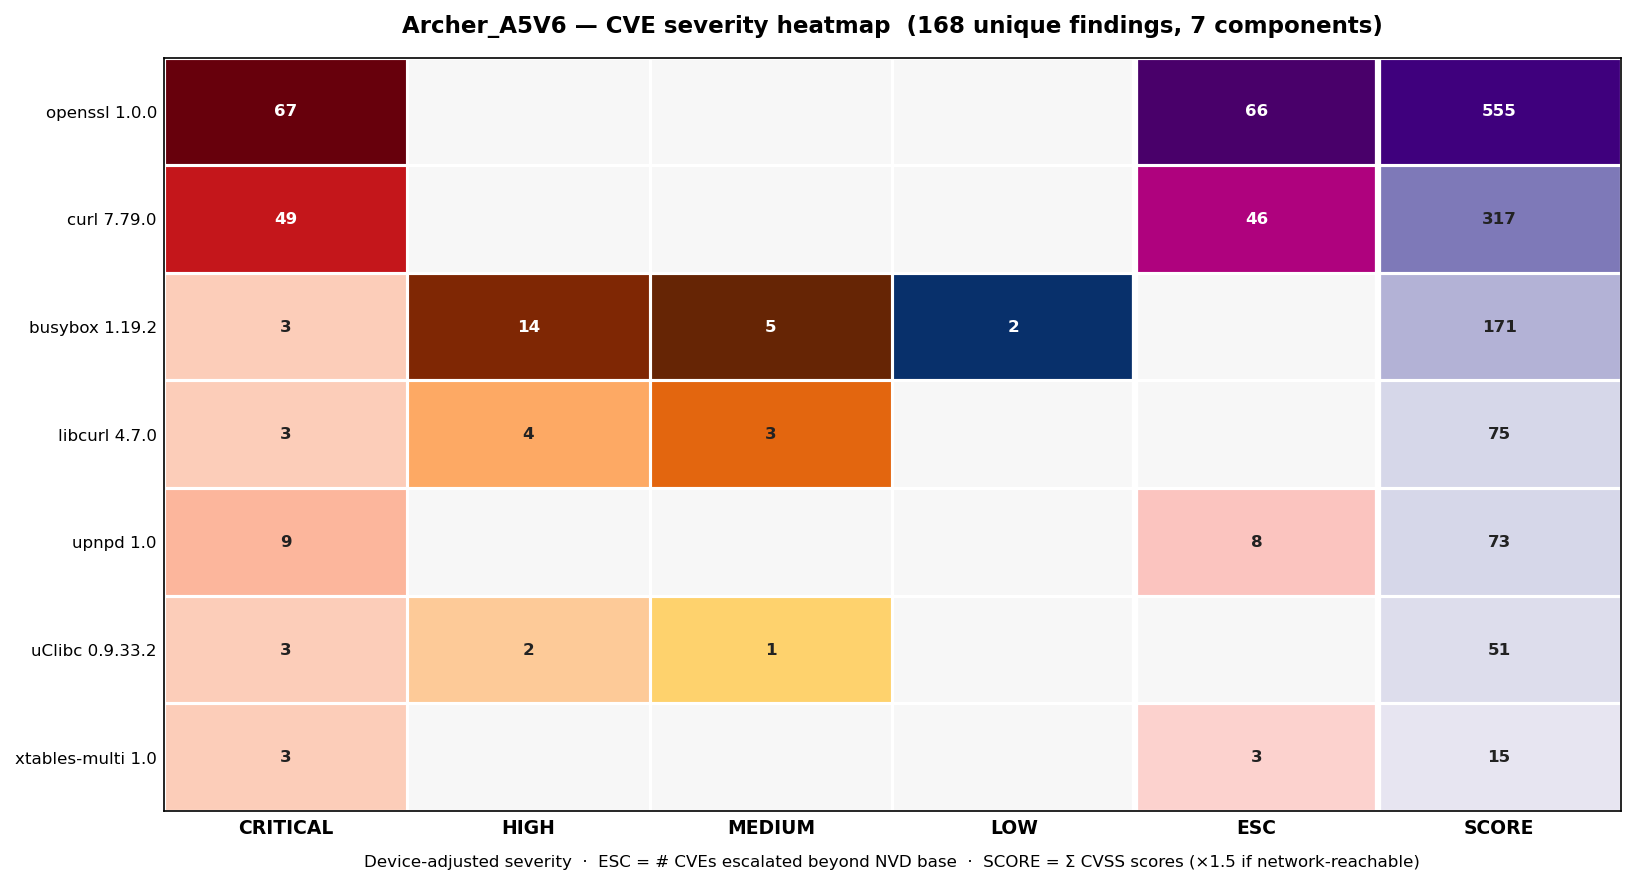
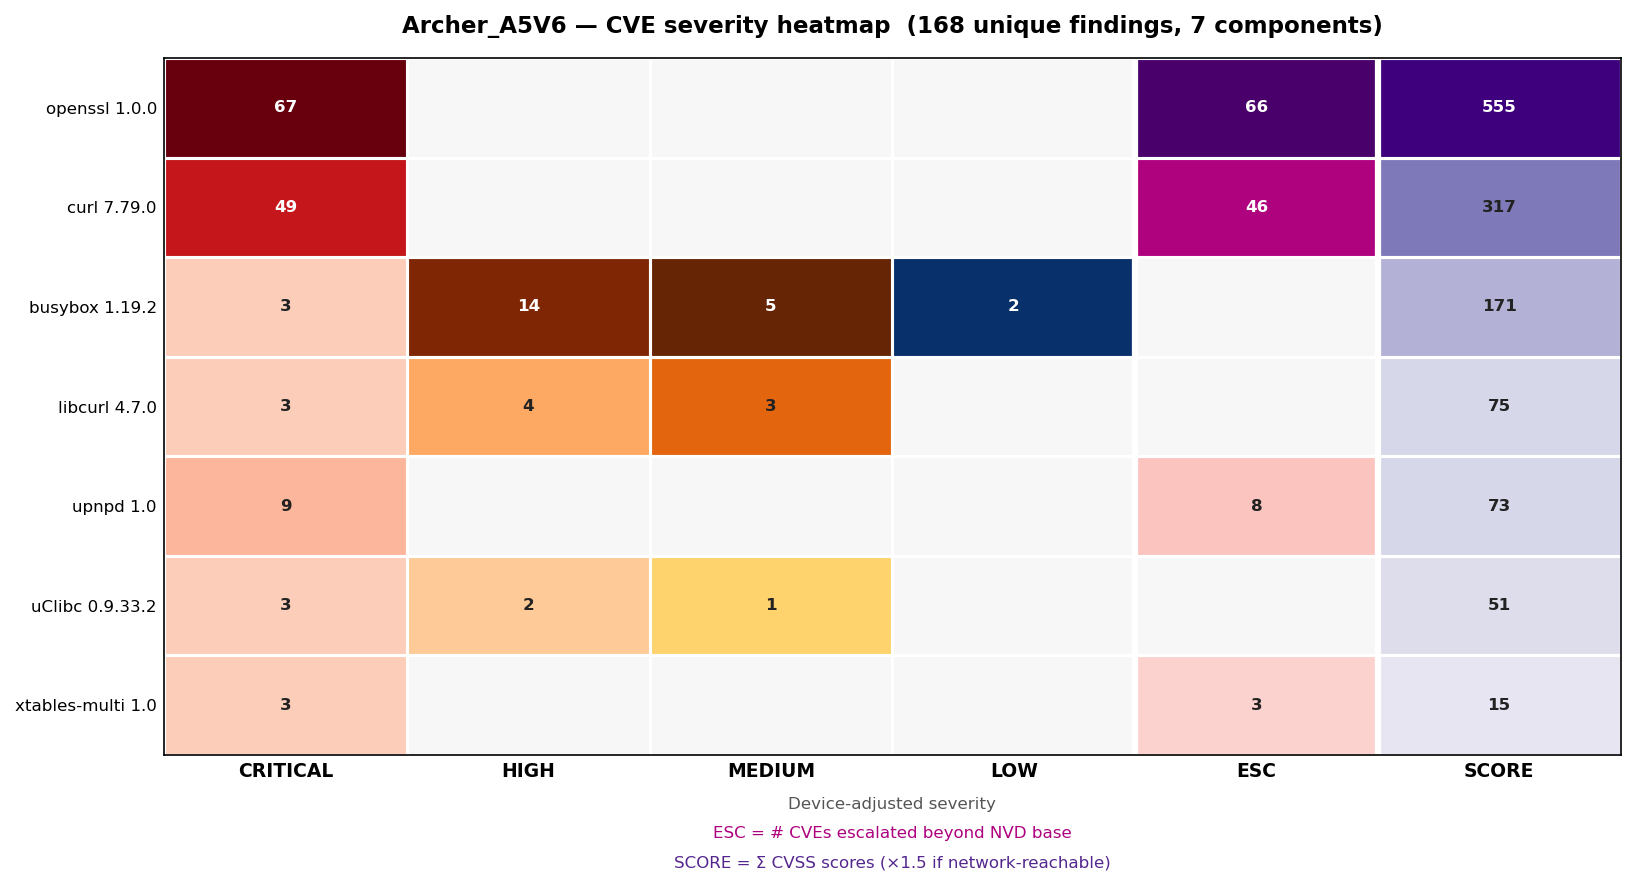
Split x-label into three color-coded lines
Each label line now matches its column's colormap color:
gray for severity, magenta (#ae017e) for ESC, purple (#54278f)
for SCORE. Uses ax.annotate with offset points so bbox_inches=tight
captures all three lines without clipping.

diff --git a/firmware_analysis/reporting/heatmap.py b/firmware_analysis/reporting/heatmap.py
@@ -209,8 +209,16 @@ def _draw(
         f"{firmware_id} — CVE severity heatmap  ({total} unique findings, {n_rows} components)",
         fontsize=11, fontweight="bold", pad=12,
     )
-    ax.set_xlabel("Device-adjusted severity  ·  ESC = # CVEs escalated beyond NVD base  ·  SCORE = Σ CVSS scores (×1.5 if network-reachable)",
-                  fontsize=8, labelpad=8)
+    _annotate = dict(
+        xy=(0.5, 0), xycoords="axes fraction",
+        textcoords="offset points", ha="center", va="top", fontsize=8,
+    )
+    ax.annotate("Device-adjusted severity",
+                xytext=(0, -20), color="#555555", **_annotate)
+    ax.annotate("ESC = # CVEs escalated beyond NVD base",
+                xytext=(0, -34), color="#ae017e", **_annotate)
+    ax.annotate("SCORE = Σ CVSS scores (×1.5 if network-reachable)",
+                xytext=(0, -48), color="#54278f", **_annotate)
 
     plt.tight_layout()
     fig.savefig(out_path, dpi=150, bbox_inches="tight")
